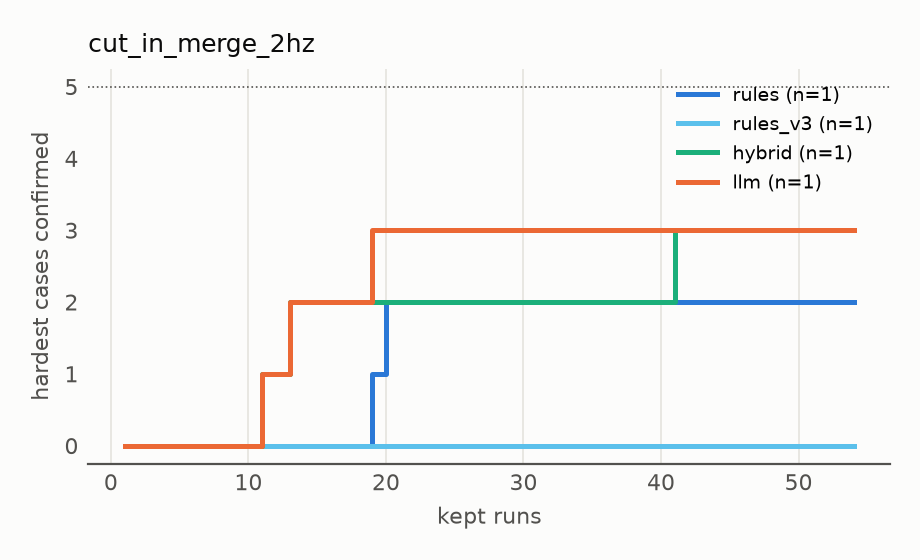
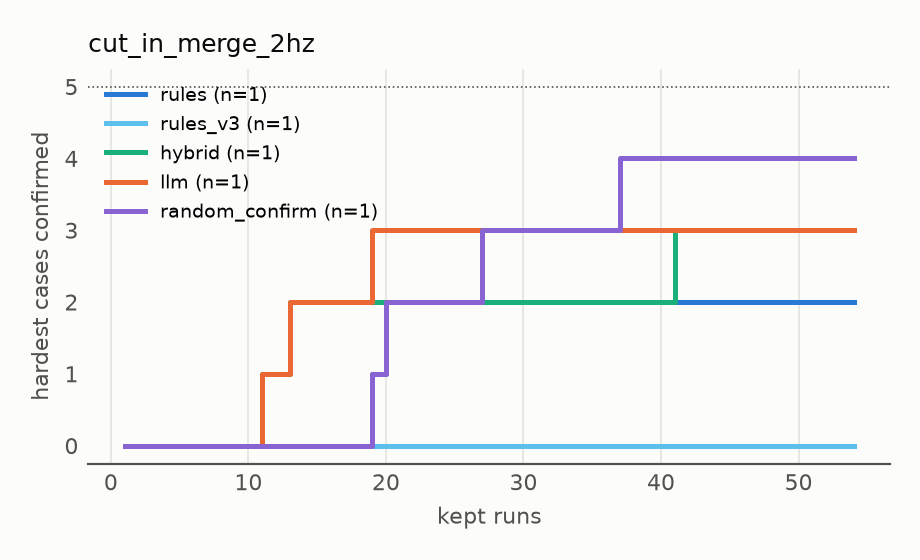
FACTS: random_confirm at 2 Hz on cut-in, 4 of 5

diff --git a/METHODS.md b/METHODS.md
@@ -17,6 +17,7 @@ k most challenging scenes (1 = a crash), whether or not it was confirmed.
 | cut_in_merge_2hz | rules_v3 | 1 | 54 | 0 | 54 | 54 | 0 of 5 | 0.862 | 3 | 0.0 |
 | cut_in_merge_2hz | hybrid | 1 | 54 | 0 | 54 | 54 | 3 of 5 | 0.938 | 10 | 87.6 |
 | cut_in_merge_2hz | llm | 1 | 54 | 0 | 54 | 54 | 3 of 5 | 0.984 | 13 | 101.6 |
+| cut_in_merge_2hz | random_confirm | 1 | 54 | 0 | 54 | 54 | 4 of 5 | 1.0 | 20 | 0.0 |
 | intersection | rules | 1 | 49 | 0 | 49 | 49 | 0 of 5 | 0.435 | 0 | 0.0 |
 | intersection | hybrid | 1 | 49 | 0 | 49 | 49 | 1 of 5 | 0.541 | 6 | 91.4 |
 | intersection | llm | 1 | 49 | 0 | 49 | 49 | 0 of 5 | 0.462 | 0 | 116.2 |
@@ -54,4 +55,4 @@ not spend their budget, so their runs to goal cannot be compared.
 Re-queued, such an arm continues from its last round.
 
 - cut_in_merge: rules, hybrid, hybrid_r2, hybrid_r3, llm
-- lead_vehicle: llm, llm_r2, llm_r3, llm_r4
+- lead_vehicle: llm, llm_r3, llm_r4

diff --git a/FACTS.md b/FACTS.md
@@ -768,6 +768,8 @@ the recording, problem 27). In progress; numbers as of the arm named.
   096988dd, as a car running into the ego before the hand-off). The three:
   023b7fcc 1.25x/0 s, 0e899dd3 1.5x/-1.5 s, 09a95ffa 1.5x/-1 s, each the
   ego drifting left out of its lane into a car beside or ahead.
+- cut-in, random + confirmation (12 Oct 11:20): 4 of 5 in 54 runs, the
+  most of any method on 2 Hz cut-in (rules 2, rules_v3 0, hybrid 3, llm 3).
 - Study reports (report.md) of arms finished before 12 Oct 09:37 state
   their goal under the old count; `METHODS.md` and these notes use the fix.
 - lead vehicle, rules_v3 (12 Oct 06:10): 0 of 5 in 49 runs, 2 failures,
